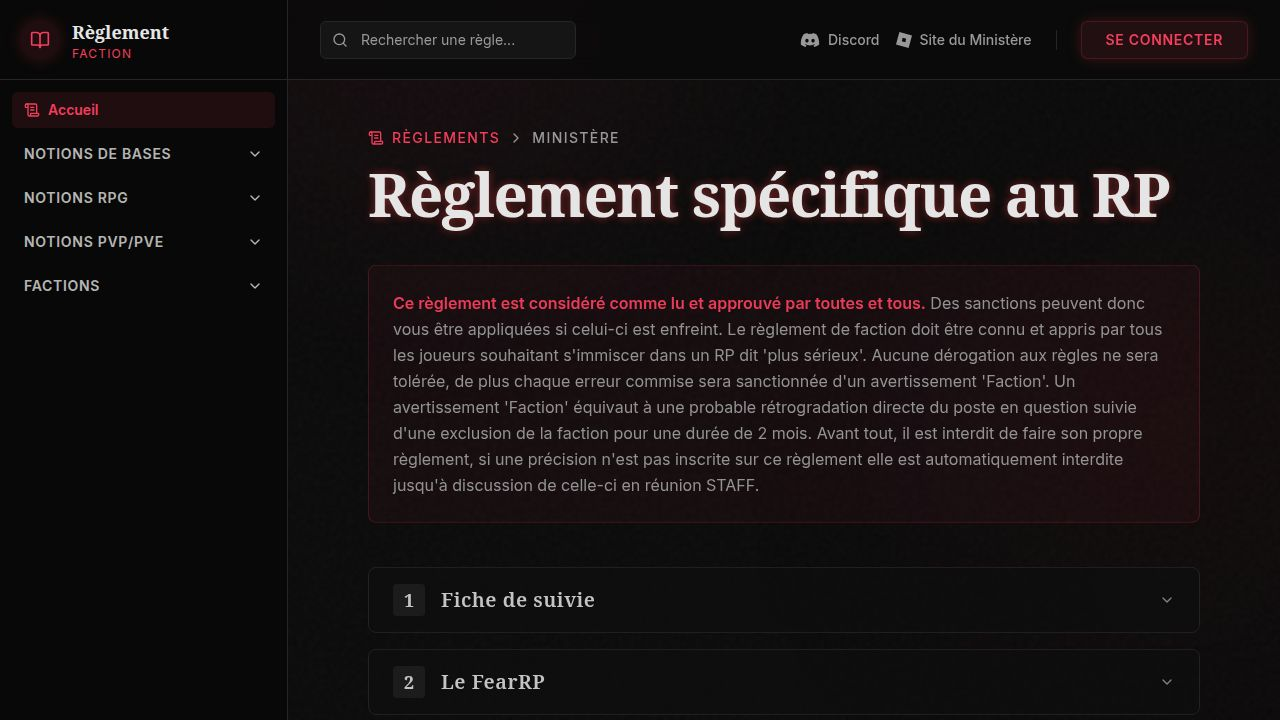
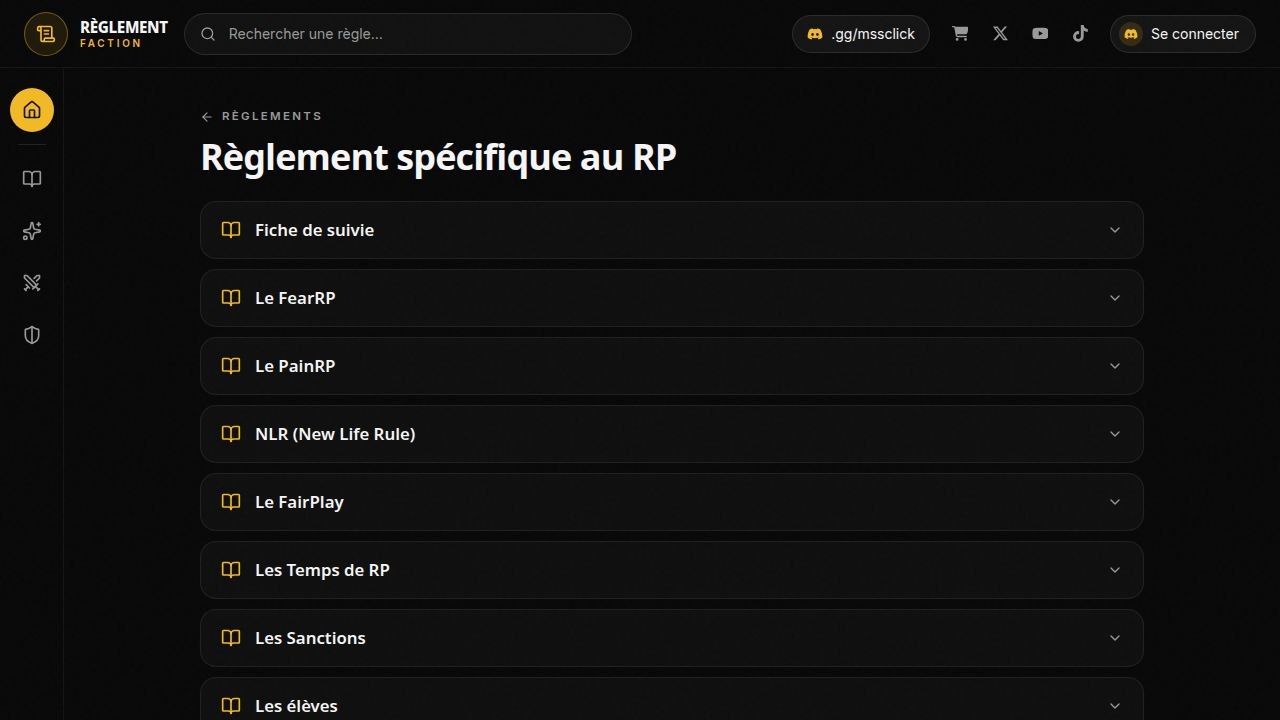
Update website links for shop and Discord invitation
Update constants for Discord invite and shop URLs in Layout component, and redirect social media icons and buttons to these new links.

Replit-Commit-Author: Agent
Replit-Commit-Session-Id: ea336772-a687-4127-9f77-87277b7ae49a
Replit-Commit-Checkpoint-Type: full_checkpoint
Replit-Commit-Event-Id: fbf7aa14-a1e8-4dd6-a428-f0aff76f1c97
Replit-Commit-Screenshot-Url: https://storage.googleapis.com/screenshot-production-us-central1/9db6e20c-29c8-4ec3-a28c-9d63984fa6c9/ea336772-a687-4127-9f77-87277b7ae49a/9LmxwhH
Replit-Helium-Checkpoint-Created: true

diff --git a/artifacts/reglement/src/components/Layout.tsx b/artifacts/reglement/src/components/Layout.tsx
@@ -16,7 +16,8 @@ import type { IconType } from "react-icons";
 import { ruleGroups } from "@/data/reglement";
 import { useSearch } from "@/lib/search-context";
 
-const DISCORD_URL = "https://discord.gg/mssclick";
+const DISCORD_INVITE = "https://discord.gg/TaqPhgNeM4";
+const SHOP_URL = "https://mssclick.tebex.io/category/grades";
 
 const groupIcons: Record<string, typeof House> = {
   "notions-de-bases": BookOpen,
@@ -26,10 +27,10 @@ const groupIcons: Record<string, typeof House> = {
 };
 
 const socials: { icon: IconType; label: string; href: string }[] = [
-  { icon: FaCartShopping, label: "Boutique", href: DISCORD_URL },
-  { icon: FaXTwitter, label: "X", href: DISCORD_URL },
-  { icon: FaYoutube, label: "YouTube", href: DISCORD_URL },
-  { icon: FaTiktok, label: "TikTok", href: DISCORD_URL },
+  { icon: FaCartShopping, label: "Boutique", href: SHOP_URL },
+  { icon: FaXTwitter, label: "X", href: DISCORD_INVITE },
+  { icon: FaYoutube, label: "YouTube", href: DISCORD_INVITE },
+  { icon: FaTiktok, label: "TikTok", href: DISCORD_INVITE },
 ];
 
 export default function Layout({ children }: { children: ReactNode }) {
@@ -143,7 +144,7 @@ export default function Layout({ children }: { children: ReactNode }) {
         {/* Right side */}
         <div className="flex items-center gap-2 md:gap-3 ml-auto">
           <a
-            href={DISCORD_URL}
+            href={DISCORD_INVITE}
             target="_blank"
             rel="noreferrer"
             className="hidden sm:flex items-center gap-2 rounded-full bg-white/[0.05] border border-white/10 px-3.5 py-2 text-sm text-foreground hover:border-primary/50 transition-colors"
@@ -169,7 +170,7 @@ export default function Layout({ children }: { children: ReactNode }) {
           </div>
 
           <a
-            href={DISCORD_URL}
+            href={DISCORD_INVITE}
             target="_blank"
             rel="noreferrer"
             className="flex items-center gap-2 rounded-full bg-white/[0.05] border border-white/10 pl-2 pr-4 py-1.5 text-sm text-foreground hover:border-primary/50 transition-colors"